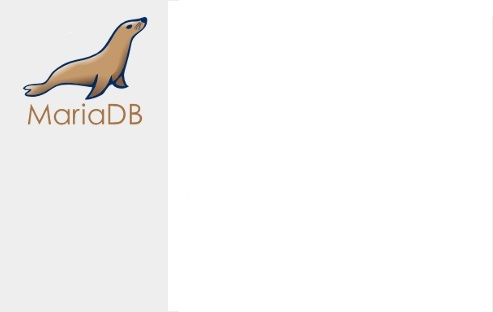
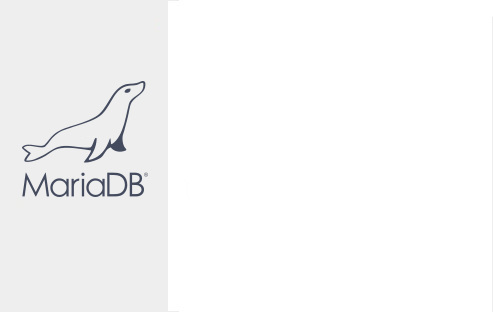
[ODBC-131] Fix and the testcase. While linking table in MS Access, it threw error when it received unexpected length for SQLSMALLINT and SQLINTEGER columns from SQLColumns resultset. New graphic images for the installer on Windows.

Changed region(s): [[0.0304, 0.0577, 0.3043, 0.5192], [0.0304, 0.5481, 0.3043, 0.6346]]

diff --git a/test/catalog2.c b/test/catalog2.c
@@ -1,6 +1,6 @@
 /*
   Copyright (c) 2001, 2012, Oracle and/or its affiliates. All rights reserved.
-                2017 MariaDB Corporation AB
+                2017, 2018 MariaDB Corporation AB
 
   The MySQL Connector/ODBC is licensed under the terms of the GPLv2
   <http://www.gnu.org/licenses/old-licenses/gpl-2.0.html>, like most
@@ -26,8 +26,16 @@
 #include "tap.h"
 
 /* Columns order num for SQLColumns */
-#define DATA_TYPE 5
-
+#define DATA_TYPE          5
+#define COLUMN_SIZE        7
+#define BUFFER_LENGTH      8
+#define DECIMAL_DIGITS     9
+#define NUM_PREC_RADIX    10
+#define NULLABLE          11
+#define SQL_DATA_TYPE     14
+#define SQL_DATETIME_SUB  15
+#define CHAR_OCTET_LENGTH 16
+#define ORDINAL_POSITION  17
 /*
   Bug #37621 - SQLDescribeCol returns incorrect values of SQLTables data
 */
@@ -1100,7 +1108,7 @@ ODBC_TEST(t_bug14555713)
 /* Bug ODBC-38. It's impossible in MS Access to insert/update record in table containing date, time or timestamp field.
    The reason is that MS Access is ODBCv2 application, and SQLColumns returned for such fields SQL type for ODBCv3
  */
-ODBC_TEST(t_odbc38)
+ODBC_TEST(odbc38)
 {
   unsigned int i;
   SQLSMALLINT  expected[][4]= {{SQL_DATE,      SQL_TIME,      SQL_TIMESTAMP     , SQL_TIMESTAMP},       /* ODBCv2 */
@@ -1159,6 +1167,85 @@ ODBC_TEST(odbc51)
 }
 
 
+/* Bug ODBC-131 regression with MS Access - error on linking a table.
+   The reason is that MS Access expects and reads size of data even for fixed
+   size types(that is kinda strange according to ODBC specs), and freaks out
+   when that size is different from what it expects
+   In fact Access reads columns DATA_TYPE, COLUMN_SIZE, DECIMAL_DIGITS, NULLABLE
+   Being ODBC2 application, it naturally doesn't know about many of fields we test
+*/
+ODBC_TEST(odbc131)
+{
+  unsigned int i;
+  SQLULEN     StrLen;
+  SQLSMALLINT ShortData,
+              SmallintFields[]= {DATA_TYPE, DECIMAL_DIGITS, NUM_PREC_RADIX, NULLABLE, SQL_DATA_TYPE, SQL_DATETIME_SUB},
+              IntFields[]= {COLUMN_SIZE, BUFFER_LENGTH/*, CHAR_OCTET_LENGTH, ORDINAL_POSITION*/};
+  SQLINTEGER  IntData;
+
+  OK_SIMPLE_STMT(Stmt, "DROP TABLE IF EXISTS t_odbc131");
+  OK_SIMPLE_STMT(Stmt, "CREATE TABLE t_odbc131 (i int, b bit(1), f float,\
+                       d date not null, t time not null, dt datetime not null,\
+                       ts timestamp not null, c varchar(20))");
+
+  CHECK_STMT_RC(Stmt, SQLColumns(Stmt, NULL, SQL_NTS, NULL, SQL_NTS,
+    (SQLCHAR *)"t_odbc131", SQL_NTS, NULL, 0));
+
+  while (SQLFetch(Stmt) != SQL_NO_DATA)
+  {
+    for (i= 0; i < sizeof(SmallintFields)/sizeof(SQLSMALLINT); ++i)
+    {
+      CHECK_STMT_RC(Stmt, SQLGetData(Stmt, SmallintFields[i], SQL_C_DEFAULT, &ShortData, 2, &StrLen));
+      if (StrLen != SQL_NULL_DATA)
+      {
+        is_num(StrLen, 2);
+      }
+    }
+    for (i= 0; i < sizeof(IntFields)/sizeof(SQLSMALLINT); ++i)
+    {
+      CHECK_STMT_RC(Stmt, SQLGetData(Stmt, IntFields[i], SQL_C_DEFAULT, &IntData, 4, &StrLen));
+      if (StrLen != SQL_NULL_DATA)
+      {
+        is_num(StrLen, 4);
+      }
+    }
+  }
+  EXPECT_STMT(Stmt, SQLFetch(Stmt), SQL_NO_DATA);
+  CHECK_STMT_RC(Stmt, SQLFreeStmt(Stmt, SQL_CLOSE));
+
+  /* Now once again with explicit types */
+  CHECK_STMT_RC(Stmt, SQLColumns(Stmt, NULL, SQL_NTS, NULL, SQL_NTS,
+    (SQLCHAR *)"t_odbc131", SQL_NTS, NULL, 0));
+
+  while (SQLFetch(Stmt) != SQL_NO_DATA)
+  {
+    for (i= 0; i < sizeof(SmallintFields)/sizeof(SQLSMALLINT); ++i)
+    {
+      CHECK_STMT_RC(Stmt, SQLGetData(Stmt, SmallintFields[i], SQL_C_SHORT, &ShortData, 2, &StrLen));
+      if (StrLen != SQL_NULL_DATA)
+      {
+        is_num(StrLen, 2);
+      }
+    }
+    for (i= 0; i < sizeof(IntFields)/sizeof(SQLSMALLINT); ++i)
+    {
+      CHECK_STMT_RC(Stmt, SQLGetData(Stmt, IntFields[i], SQL_C_LONG, &IntData, 4, &StrLen));
+      if (StrLen != SQL_NULL_DATA)
+      {
+        is_num(StrLen, 4);
+      }
+    }
+  }
+
+  EXPECT_STMT(Stmt, SQLFetch(Stmt), SQL_NO_DATA);
+  CHECK_STMT_RC(Stmt, SQLFreeStmt(Stmt, SQL_CLOSE));
+
+  OK_SIMPLE_STMT(Stmt, "DROP TABLE t_odbc131");
+
+  return OK;
+}
+
+
 MA_ODBC_TESTS my_tests[]=
 {
   {t_bug37621, "t_bug37621", NORMAL},
@@ -1177,8 +1264,9 @@ MA_ODBC_TESTS my_tests[]=
   {t_bug14085211_part1,       "t_bug14085211_part1",       NORMAL},
   {t_sqlcolumns_after_select, "t_sqlcolumns_after_select", NORMAL},
   {t_bug14555713,             "t_bug14555713",             NORMAL},
-  {t_odbc38,                  "odbc2_odbc3_data_types",    NORMAL},
-  { odbc51,    "odbc51_wchar_emptystring", NORMAL },
+  {odbc38,  "odbc32_odbc2_odbc3_data_types", NORMAL},
+  {odbc51,  "odbc51_wchar_emptystring",      NORMAL},
+  {odbc131, "odbc131_columns_data_len",      NORMAL},
   {NULL, NULL}
 };
 

diff --git a/ma_statement.c b/ma_statement.c
@@ -2609,8 +2609,6 @@ SQLRETURN MADB_StmtGetData(SQLHSTMT StatementHandle,
          (Access uses default types on getting catalog functions results, and not quite happy when it gets something unexpected. Seemingly it cares about returned data lenghts even for types,
          for which standard says application should not care about */
       OdbcType= IrdRec->ConciseType;
-      /*OdbcType= Stmt->Connection->IsAnsi || (Col_or_Param_Num == 10 && BufferLength == 2) ?
-                IrdRec->ConciseType : MADB_GetWCharType(IrdRec->ConciseType);*/
     }
     break;
   default:
@@ -2939,7 +2937,9 @@ SQLRETURN MADB_StmtGetData(SQLHSTMT StatementHandle,
       /* Dirty temporary hack before we know what is going on. Yes, there is nothing more eternal, than temporary
          It's not that bad, after all */
       if ((long)*Bind.length == -1)
+      {
         *Bind.length= 0;
+      }
       /* end of dirty hack */
 
       if (!InternalUse && !Stmt->CharOffset[Offset])
@@ -2991,6 +2991,7 @@ SQLRETURN MADB_StmtGetData(SQLHSTMT StatementHandle,
         Bind.buffer_length= (unsigned long)BufferLength;
       }
       mysql_stmt_fetch_column(Stmt->stmt, &Bind, Offset, 0);
+
       if (StrLen_or_IndPtr != NULL)
       {
         if (Bind.length_value != 0 && (long)Bind.length_value != -1)
@@ -3001,7 +3002,18 @@ SQLRETURN MADB_StmtGetData(SQLHSTMT StatementHandle,
         {
           *StrLen_or_IndPtr= Bind.buffer_length;
         }
-        else/* if (TargetType == SQL_C_DEFAULT)*/
+        else
+        {
+          *StrLen_or_IndPtr= IrdRec->OctetLength;
+        }
+        /* We get here only for fixed data types. Thus this data sanity check makes sense. But we do this
+           for catalog functions and MS Access in first turn. The thing is that for some columns in catalog functions result,
+           we fix column type manually, since we can't make field of desired type in the query to I_S. Mostly that is for SQLSMALLINT
+           fields, and we can cast only to int, not to short. MSAccess in its turn like to to get lenght for fixed length types, and
+           throws error if the length is not what it expected (ODBC-131)
+           Probably it makes sense to do this only for SQL_C_DEFAULT type, which MS Access uses. But atm it looks like this should
+           not hurt if done for other types, too */
+        if (*StrLen_or_IndPtr > IrdRec->OctetLength)
         {
           *StrLen_or_IndPtr= IrdRec->OctetLength;
         }

diff --git a/ma_statement.h b/ma_statement.h
@@ -186,8 +186,8 @@ MYSQL_RES*   FetchMetadata          (MADB_Stmt *Stmt);
 
 /************** SQLColumns       *************/
 #define MADB_COLUMN_SIZE\
-    "CASE" \
-    "  WHEN DATA_TYPE = 'bit' THEN @ColSize:=CAST(((NUMERIC_PRECISION + 7) / 8) AS SIGNED) "\
+    "CAST(CASE" \
+    "  WHEN DATA_TYPE = 'bit' THEN @ColSize:=((NUMERIC_PRECISION + 7) / 8) "\
     "  WHEN DATA_TYPE in ('tinyint', 'smallint', 'year', 'mediumint', 'int',"\
                          "'bigint', 'decimal', 'double') THEN @ColSize:=NUMERIC_PRECISION "\
     "  WHEN DATA_TYPE = 'float' THEN @ColSize:=7"\
@@ -195,7 +195,7 @@ MYSQL_RES*   FetchMetadata          (MADB_Stmt *Stmt);
     "  WHEN DATA_TYPE='time' THEN @ColSize:=8"\
     "  WHEN DATA_TYPE in ('timestamp', 'datetime') THEN @ColSize:=19 "\
     "  ELSE @ColSize:=CHARACTER_MAXIMUM_LENGTH "\
-  "END "
+  "END AS SIGNED)"
 
 #define MADB_CATALOG_COLUMNSp1 "SELECT TABLE_SCHEMA AS TABLE_CAT, NULL AS TABLE_SCHEM, TABLE_NAME, COLUMN_NAME, "
 #define MADB_CATALOG_COLUMNSp3  ", UCASE(IF(COLUMN_TYPE LIKE '%%(%%)%%',  CONCAT(SUBSTRING(COLUMN_TYPE,1, LOCATE('(',COLUMN_TYPE) - 1 ), SUBSTRING(COLUMN_TYPE,1+locate(')',COLUMN_TYPE))), COLUMN_TYPE )) AS TYPE_NAME, "\
